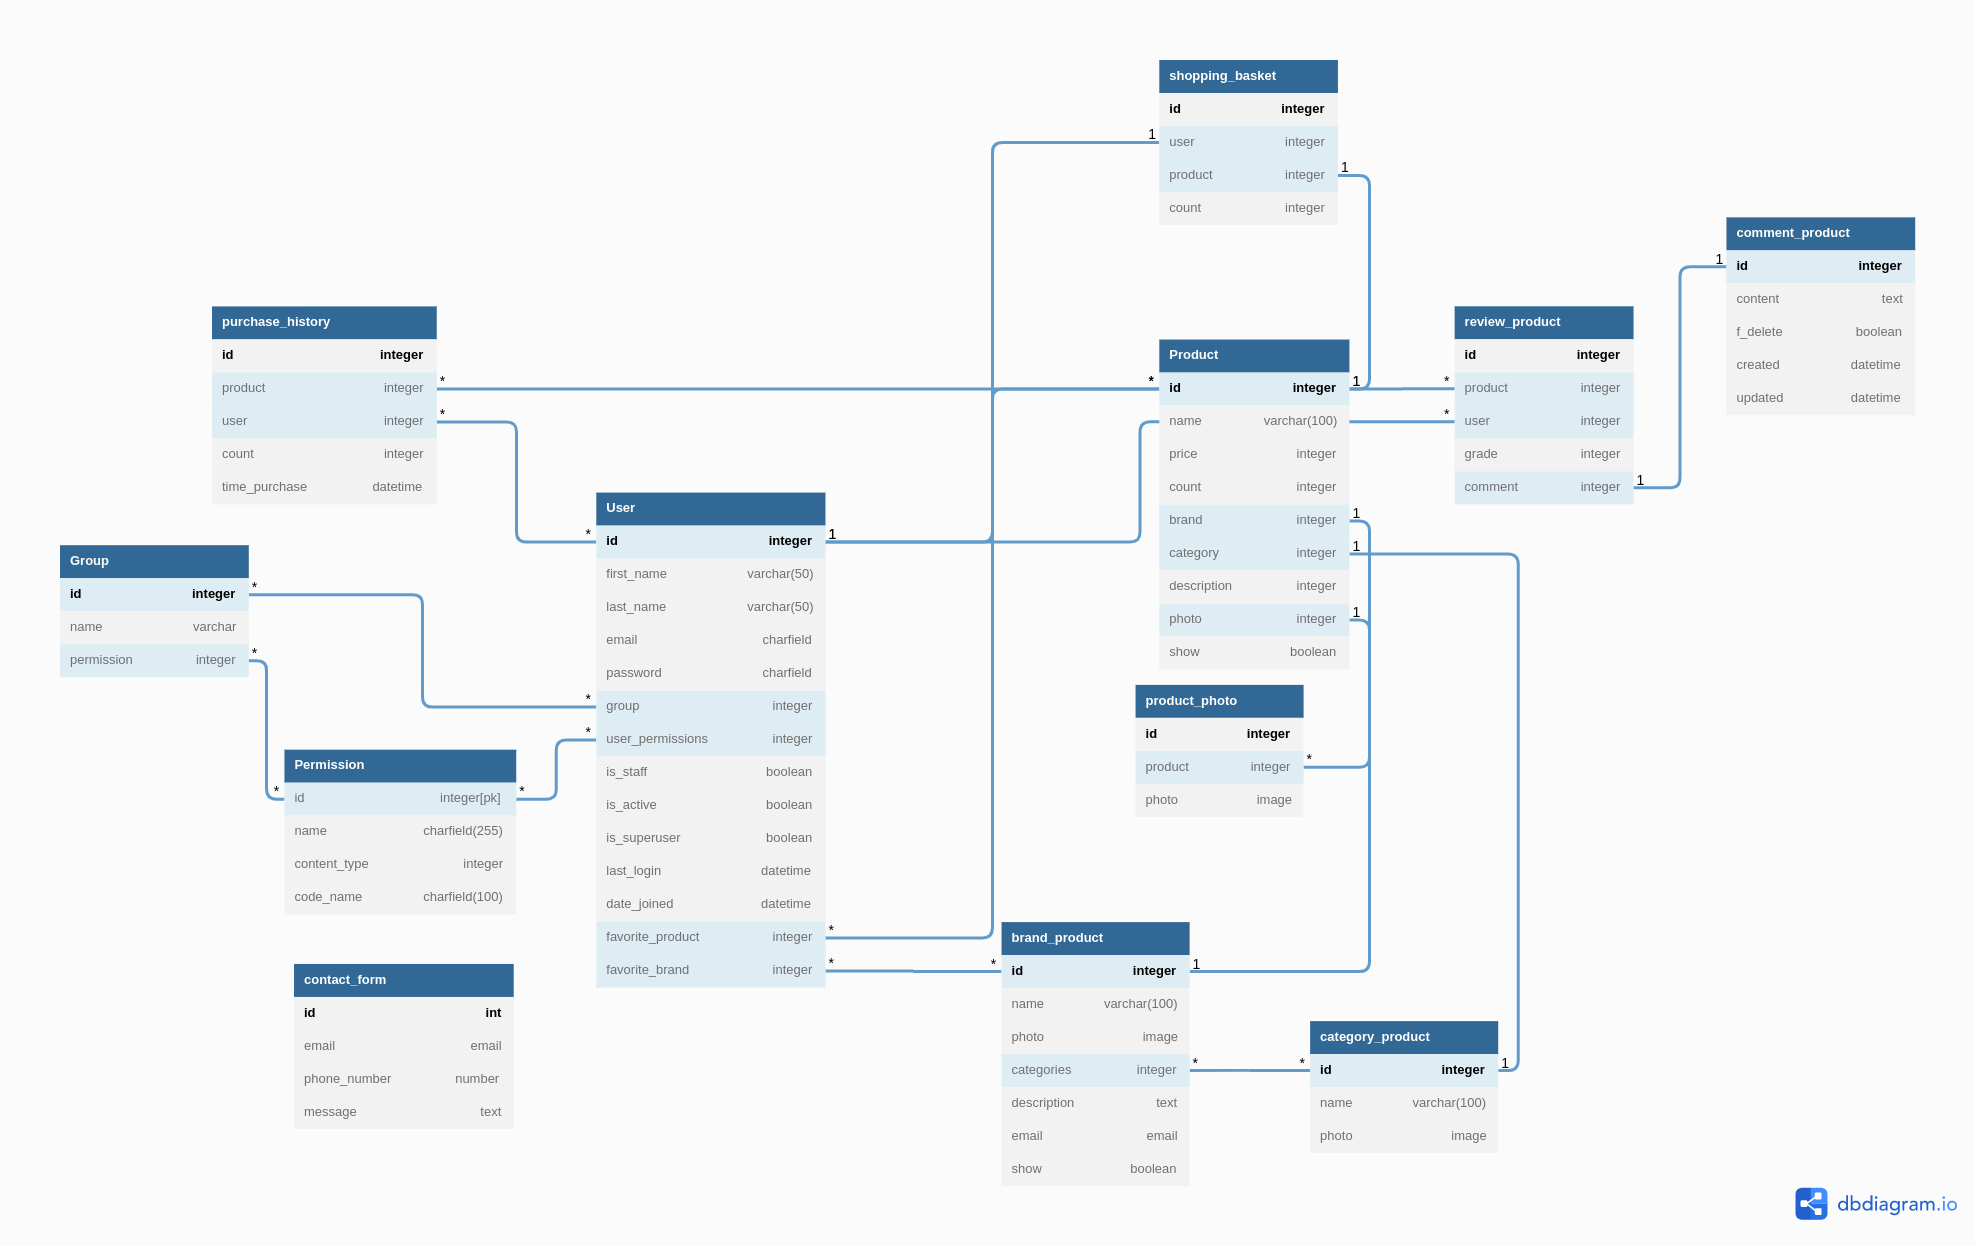
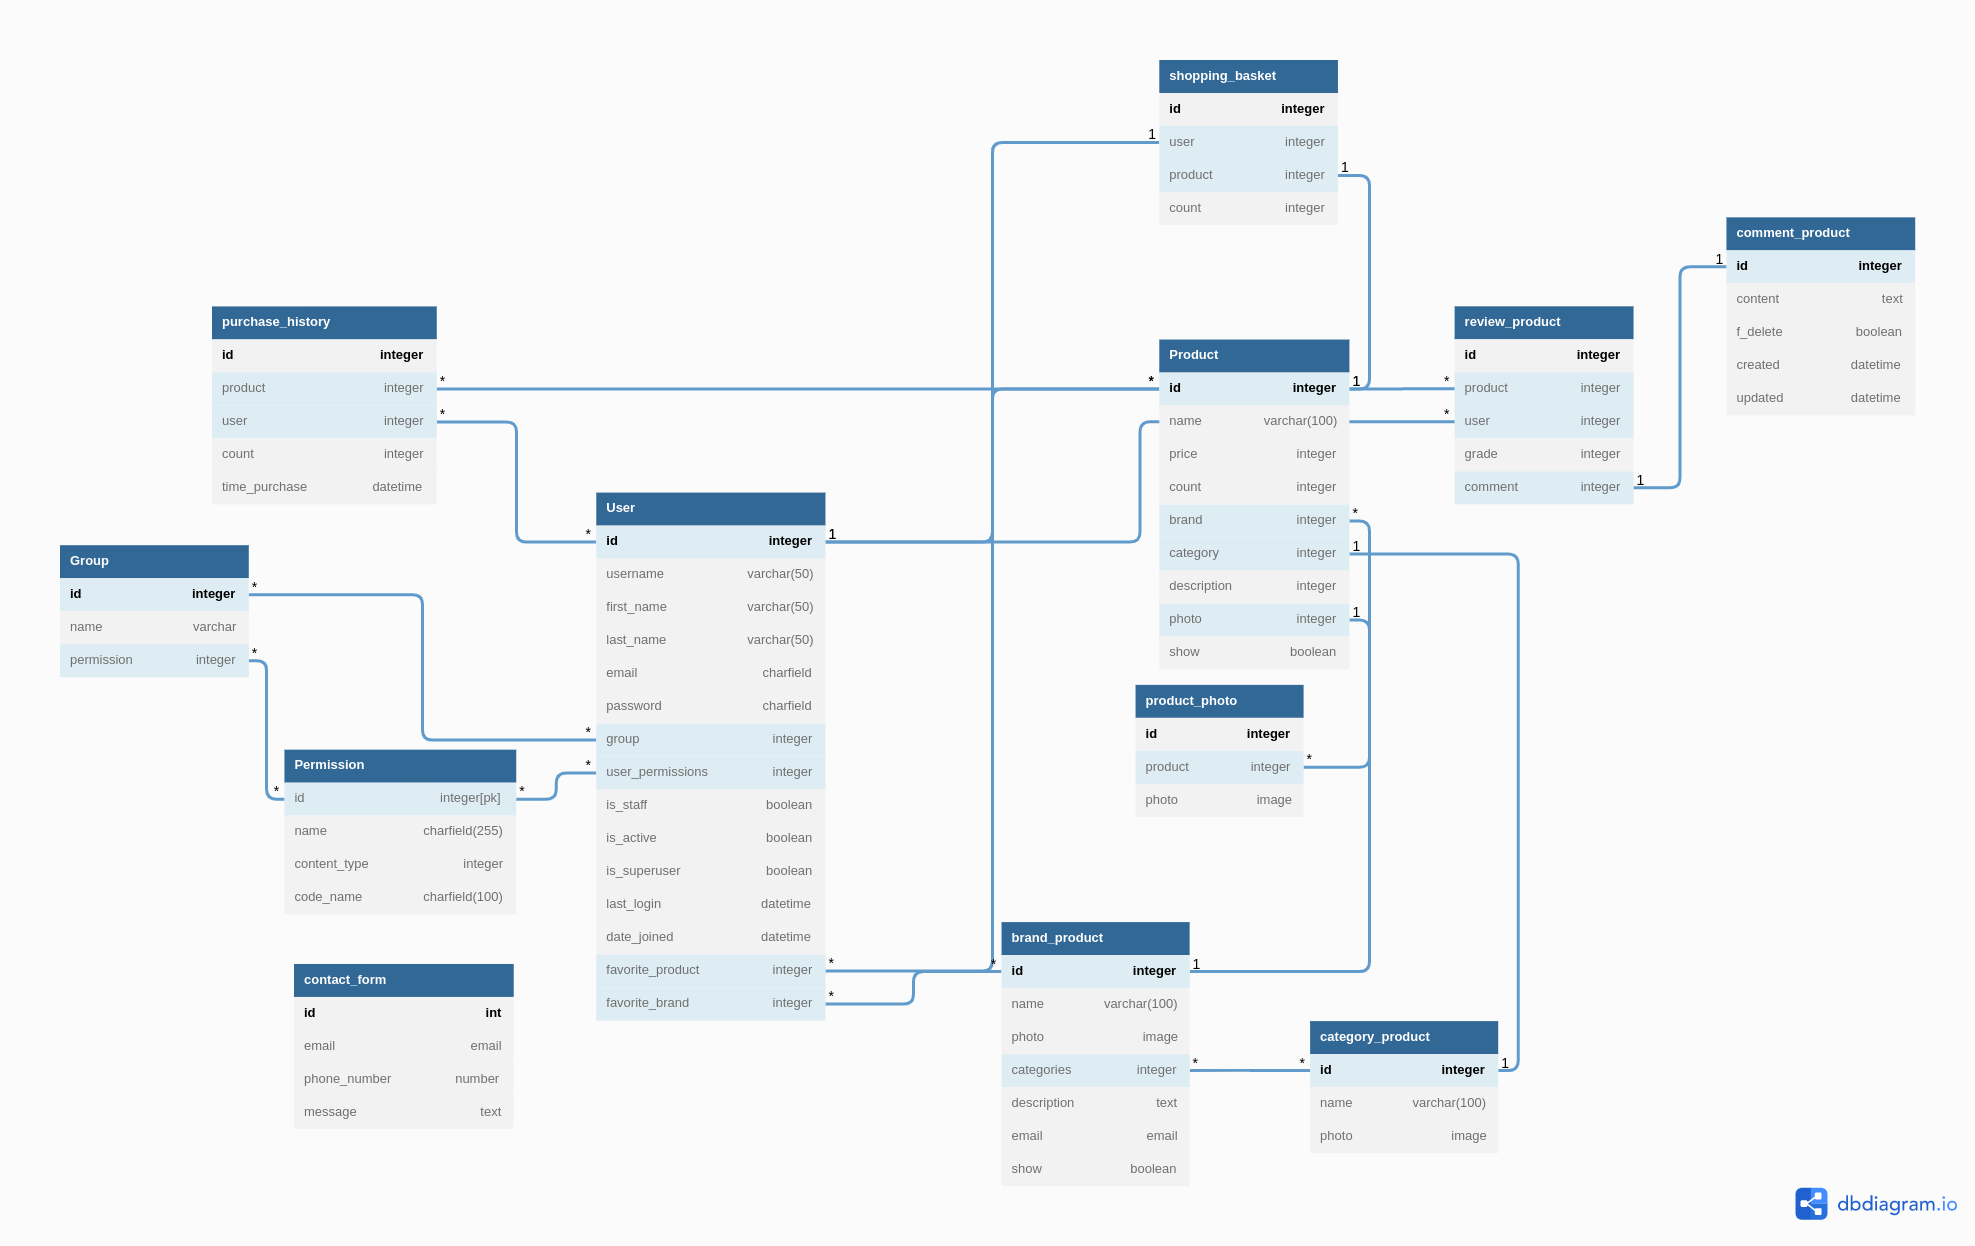
Исправлена ошибка в модели товара в связи с брендом

diff --git a/CLA__shop/shop_products/migrations/0001_initial.py b/CLA__shop/shop_products/migrations/0001_initial.py
@@ -1,4 +1,4 @@
-# Generated by Django 4.1 on 2022-09-16 06:53
+# Generated by Django 4.1 on 2022-09-17 03:24
 
 from django.db import migrations, models
 import django.db.models.deletion
@@ -52,7 +52,7 @@ class Migration(migrations.Migration):
                 ('count', models.IntegerField(default=0, help_text='Количество товаров на складе (сколько можно продать товаров)', verbose_name='Количество')),
                 ('description', models.TextField(verbose_name='Описание товара')),
                 ('show', models.BooleanField(default=True, help_text='Флаг, который позволяет регулировать отображение товара на страницах', verbose_name='Флаг показа товара')),
-                ('brand', models.OneToOneField(on_delete=django.db.models.deletion.CASCADE, to='shop_products.brandproduct', verbose_name='Бренд')),
+                ('brand', models.ForeignKey(on_delete=django.db.models.deletion.CASCADE, to='shop_products.brandproduct', verbose_name='Бренд')),
                 ('category', models.ForeignKey(on_delete=django.db.models.deletion.CASCADE, to='shop_products.categoryproduct', verbose_name='Категория')),
             ],
             options={

diff --git a/CLA__shop/shop_products/models/products.py b/CLA__shop/shop_products/models/products.py
@@ -25,7 +25,7 @@ class Product(models.Model):
         verbose_name='Количество',
         help_text='Количество товаров на складе (сколько можно продать товаров)',
     )
-    brand = models.OneToOneField(
+    brand = models.ForeignKey(
         BrandProduct,
         on_delete=models.CASCADE,
         db_index=True,
